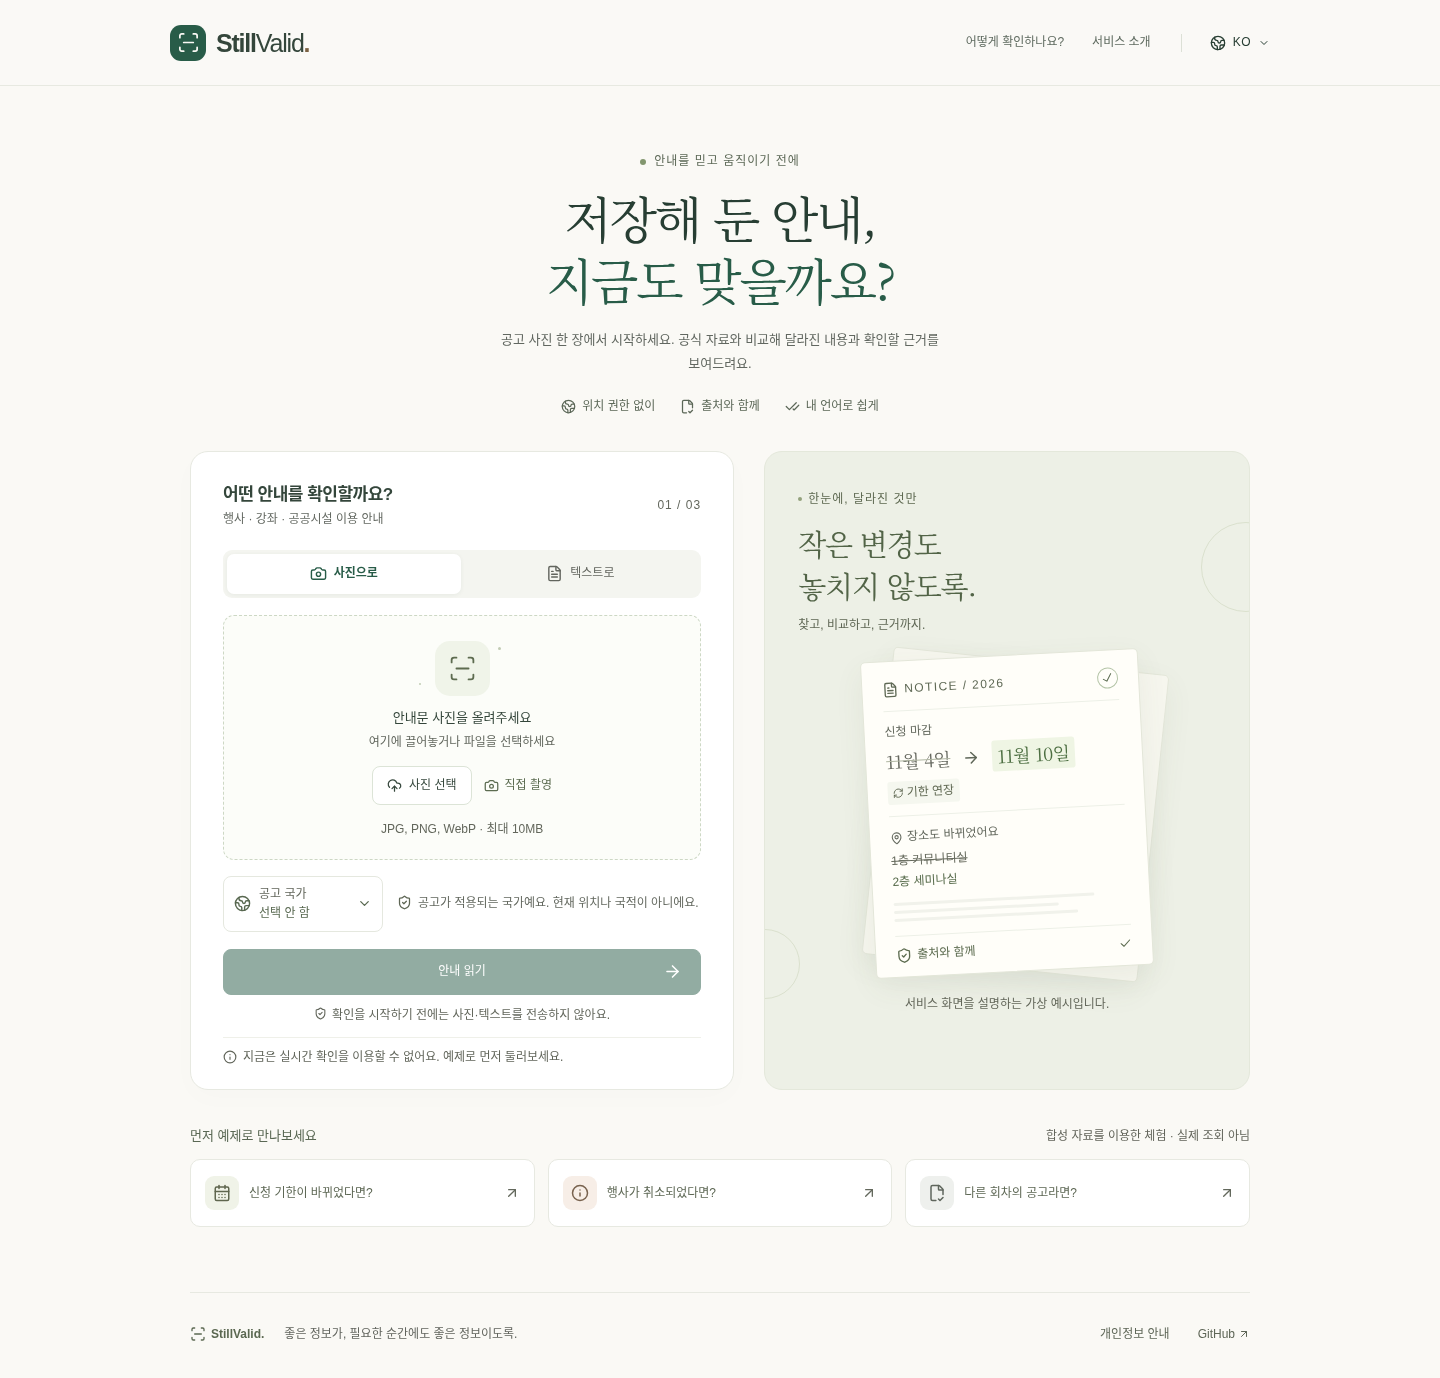
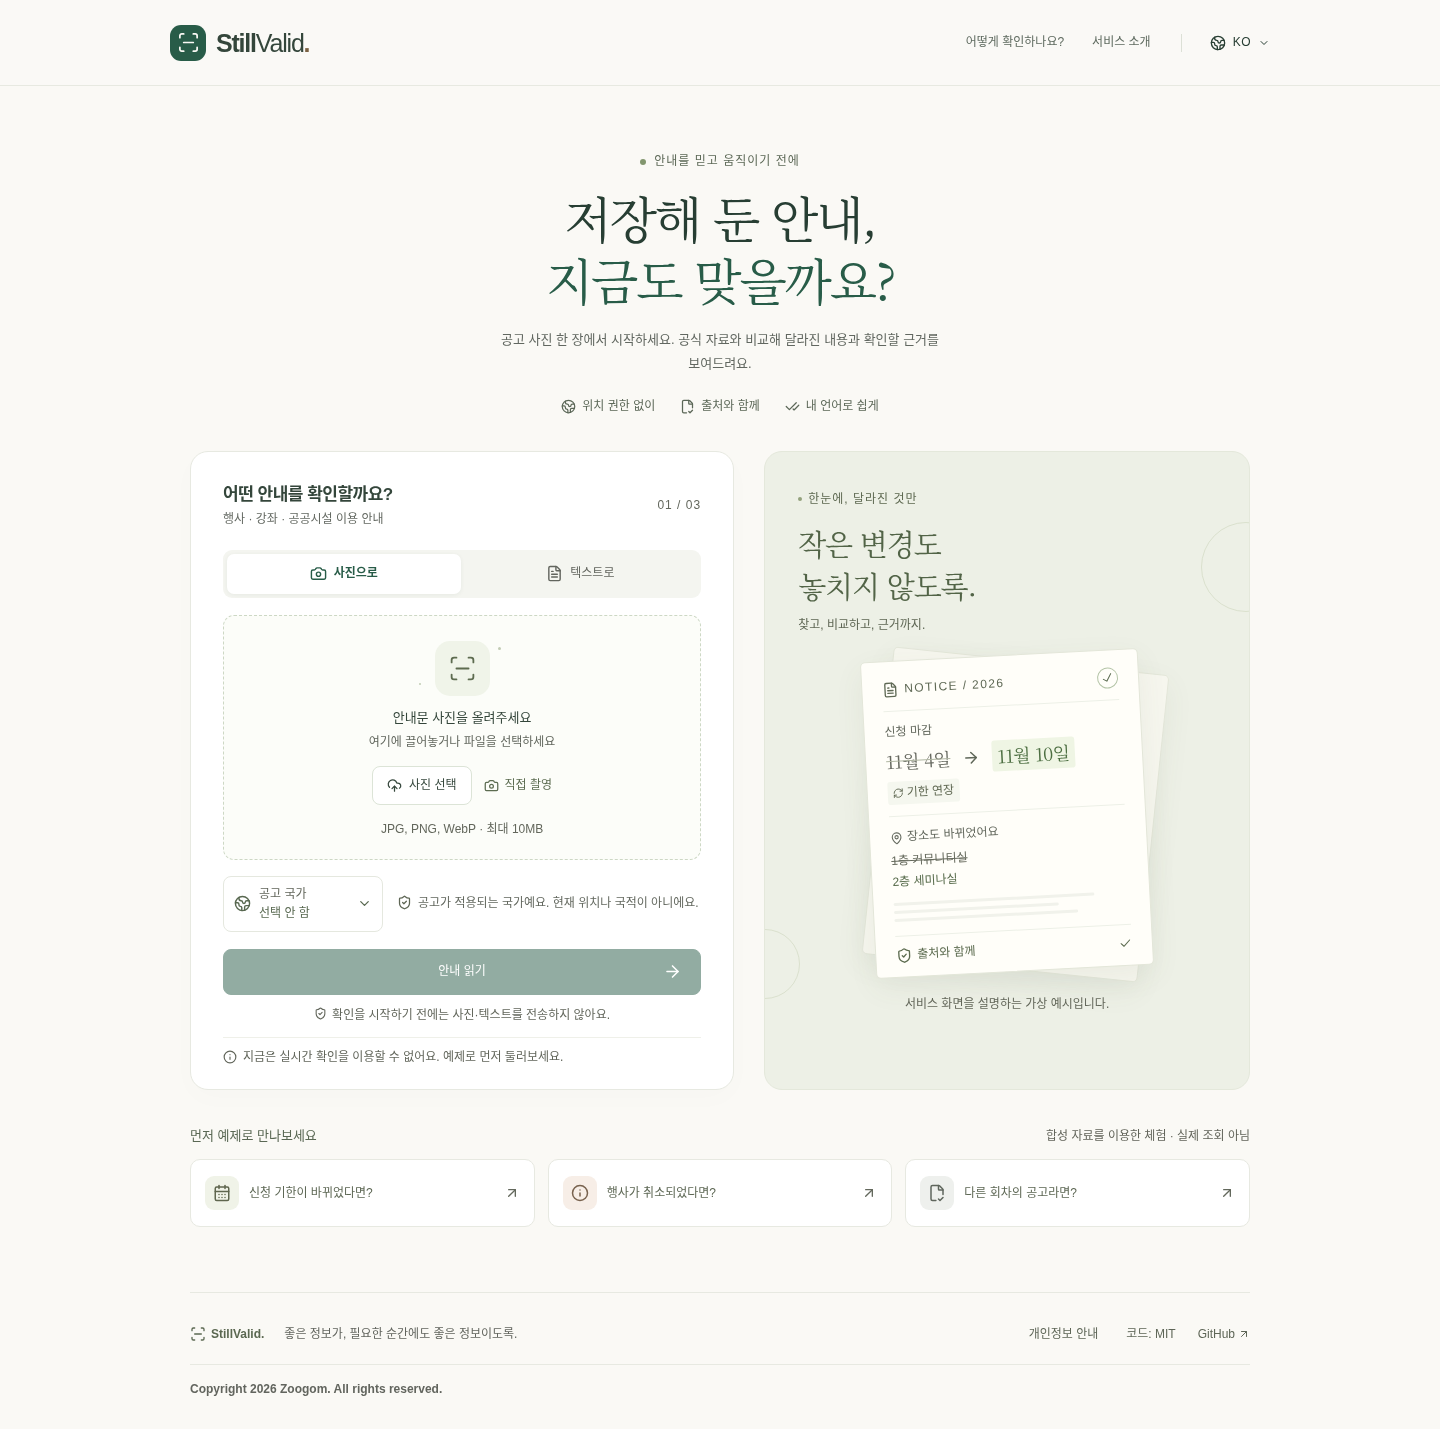
Add Zoogom copyright footer and source license link

diff --git a/src/lib/i18n.ts b/src/lib/i18n.ts
@@ -201,6 +201,7 @@ const ko = {
   privacy: "개인정보 안내",
   github: "GitHub",
   footer: "좋은 정보가, 필요한 순간에도 좋은 정보이도록.",
+  codeLicense: "코드: MIT",
   aboutTitle: "안내와 지금 사이를 연결해요.",
   aboutBody:
     "StillValid는 오래된 공고 사진과 공식 자료 사이의 차이를 이해하도록 돕는 독립 프로젝트예요. 공개 행사·강좌·공공시설 안내부터 시작해요. 전 세계 사용자를 위한 국가 설정을 제공하지만 모든 기관과 언어의 확인 품질을 보증하지는 않아요.",
@@ -434,6 +435,7 @@ const en: Copy = {
   privacy: "Privacy",
   github: "GitHub",
   footer: "Useful information, still useful when you need it.",
+  codeLicense: "Code: MIT",
   aboutTitle: "Between a saved notice and now.",
   aboutBody:
     "StillValid is an independent project helping people understand differences between old notice photos and official material. It starts with public events, programs and facility notices. Global country settings don't imply verified coverage of every institution or language.",

diff --git a/src/components/app.tsx b/src/components/app.tsx
@@ -1679,11 +1679,21 @@ export default function StillValidApp() {
         </div>
         <nav>
           <button onClick={() => setDialog("privacy")}>{t.privacy}</button>
+          <a
+            href={`${GitHub}/blob/main/LICENSE`}
+            target="_blank"
+            rel="noopener noreferrer"
+          >
+            {t.codeLicense}
+          </a>
           <a href={GitHub} target="_blank" rel="noopener noreferrer">
             {t.github}
             <ArrowUpRight size={12} />
           </a>
         </nav>
+        <p className="footer-copyright" lang="en">
+          <strong>Copyright 2026 Zoogom. All rights reserved.</strong>
+        </p>
       </footer>
       {toast && (
         <div className="toast" role="status">

diff --git a/src/app/globals.css b/src/app/globals.css
@@ -788,6 +788,8 @@ html[lang="en"] .hero h1 {
   margin: auto;
   padding: 25px 0 28px;
   display: flex;
+  flex-wrap: wrap;
+  row-gap: 14px;
   align-items: center;
   justify-content: space-between;
 }
@@ -808,6 +810,16 @@ html[lang="en"] .hero h1 {
   margin: 0;
   font-size: 12px;
   color: #62655e;
+}
+.site-footer .footer-copyright {
+  flex-basis: 100%;
+  width: 100%;
+  max-width: none;
+  margin: 0;
+  padding-top: 14px;
+  border-top: 1px solid var(--line);
+  line-height: 1.8;
+  overflow-wrap: anywhere;
 }
 .site-footer nav {
   display: flex;
